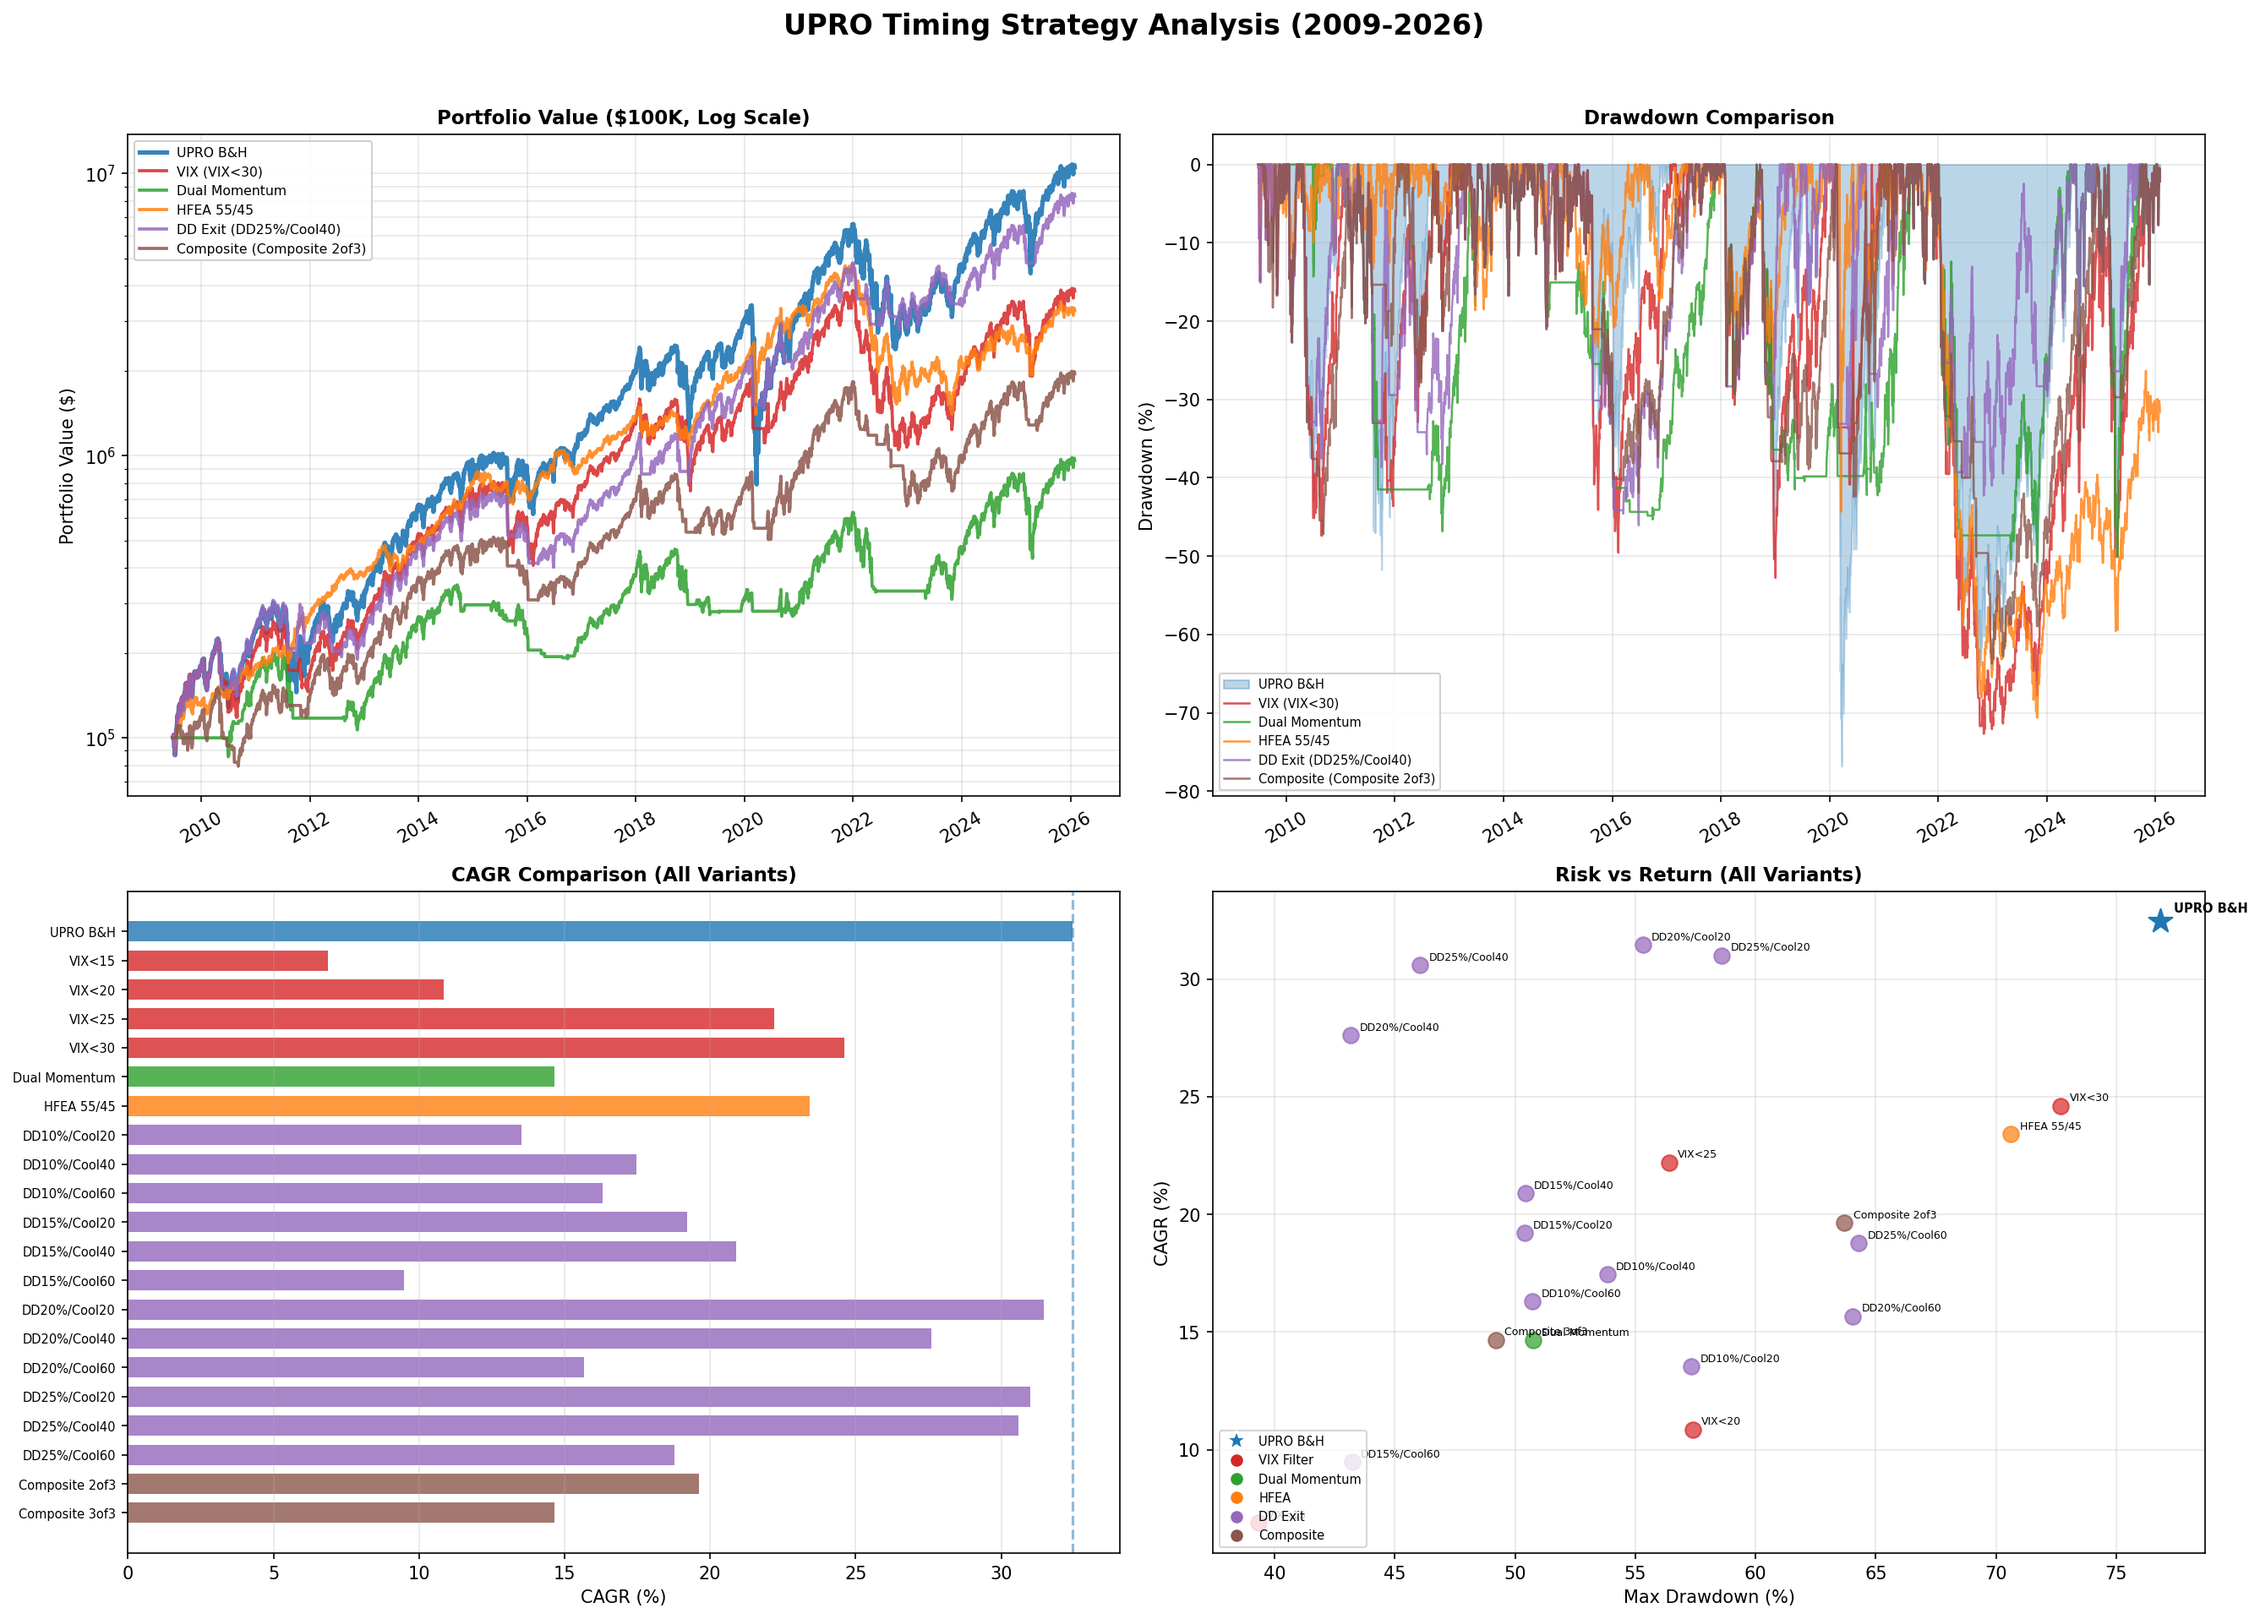
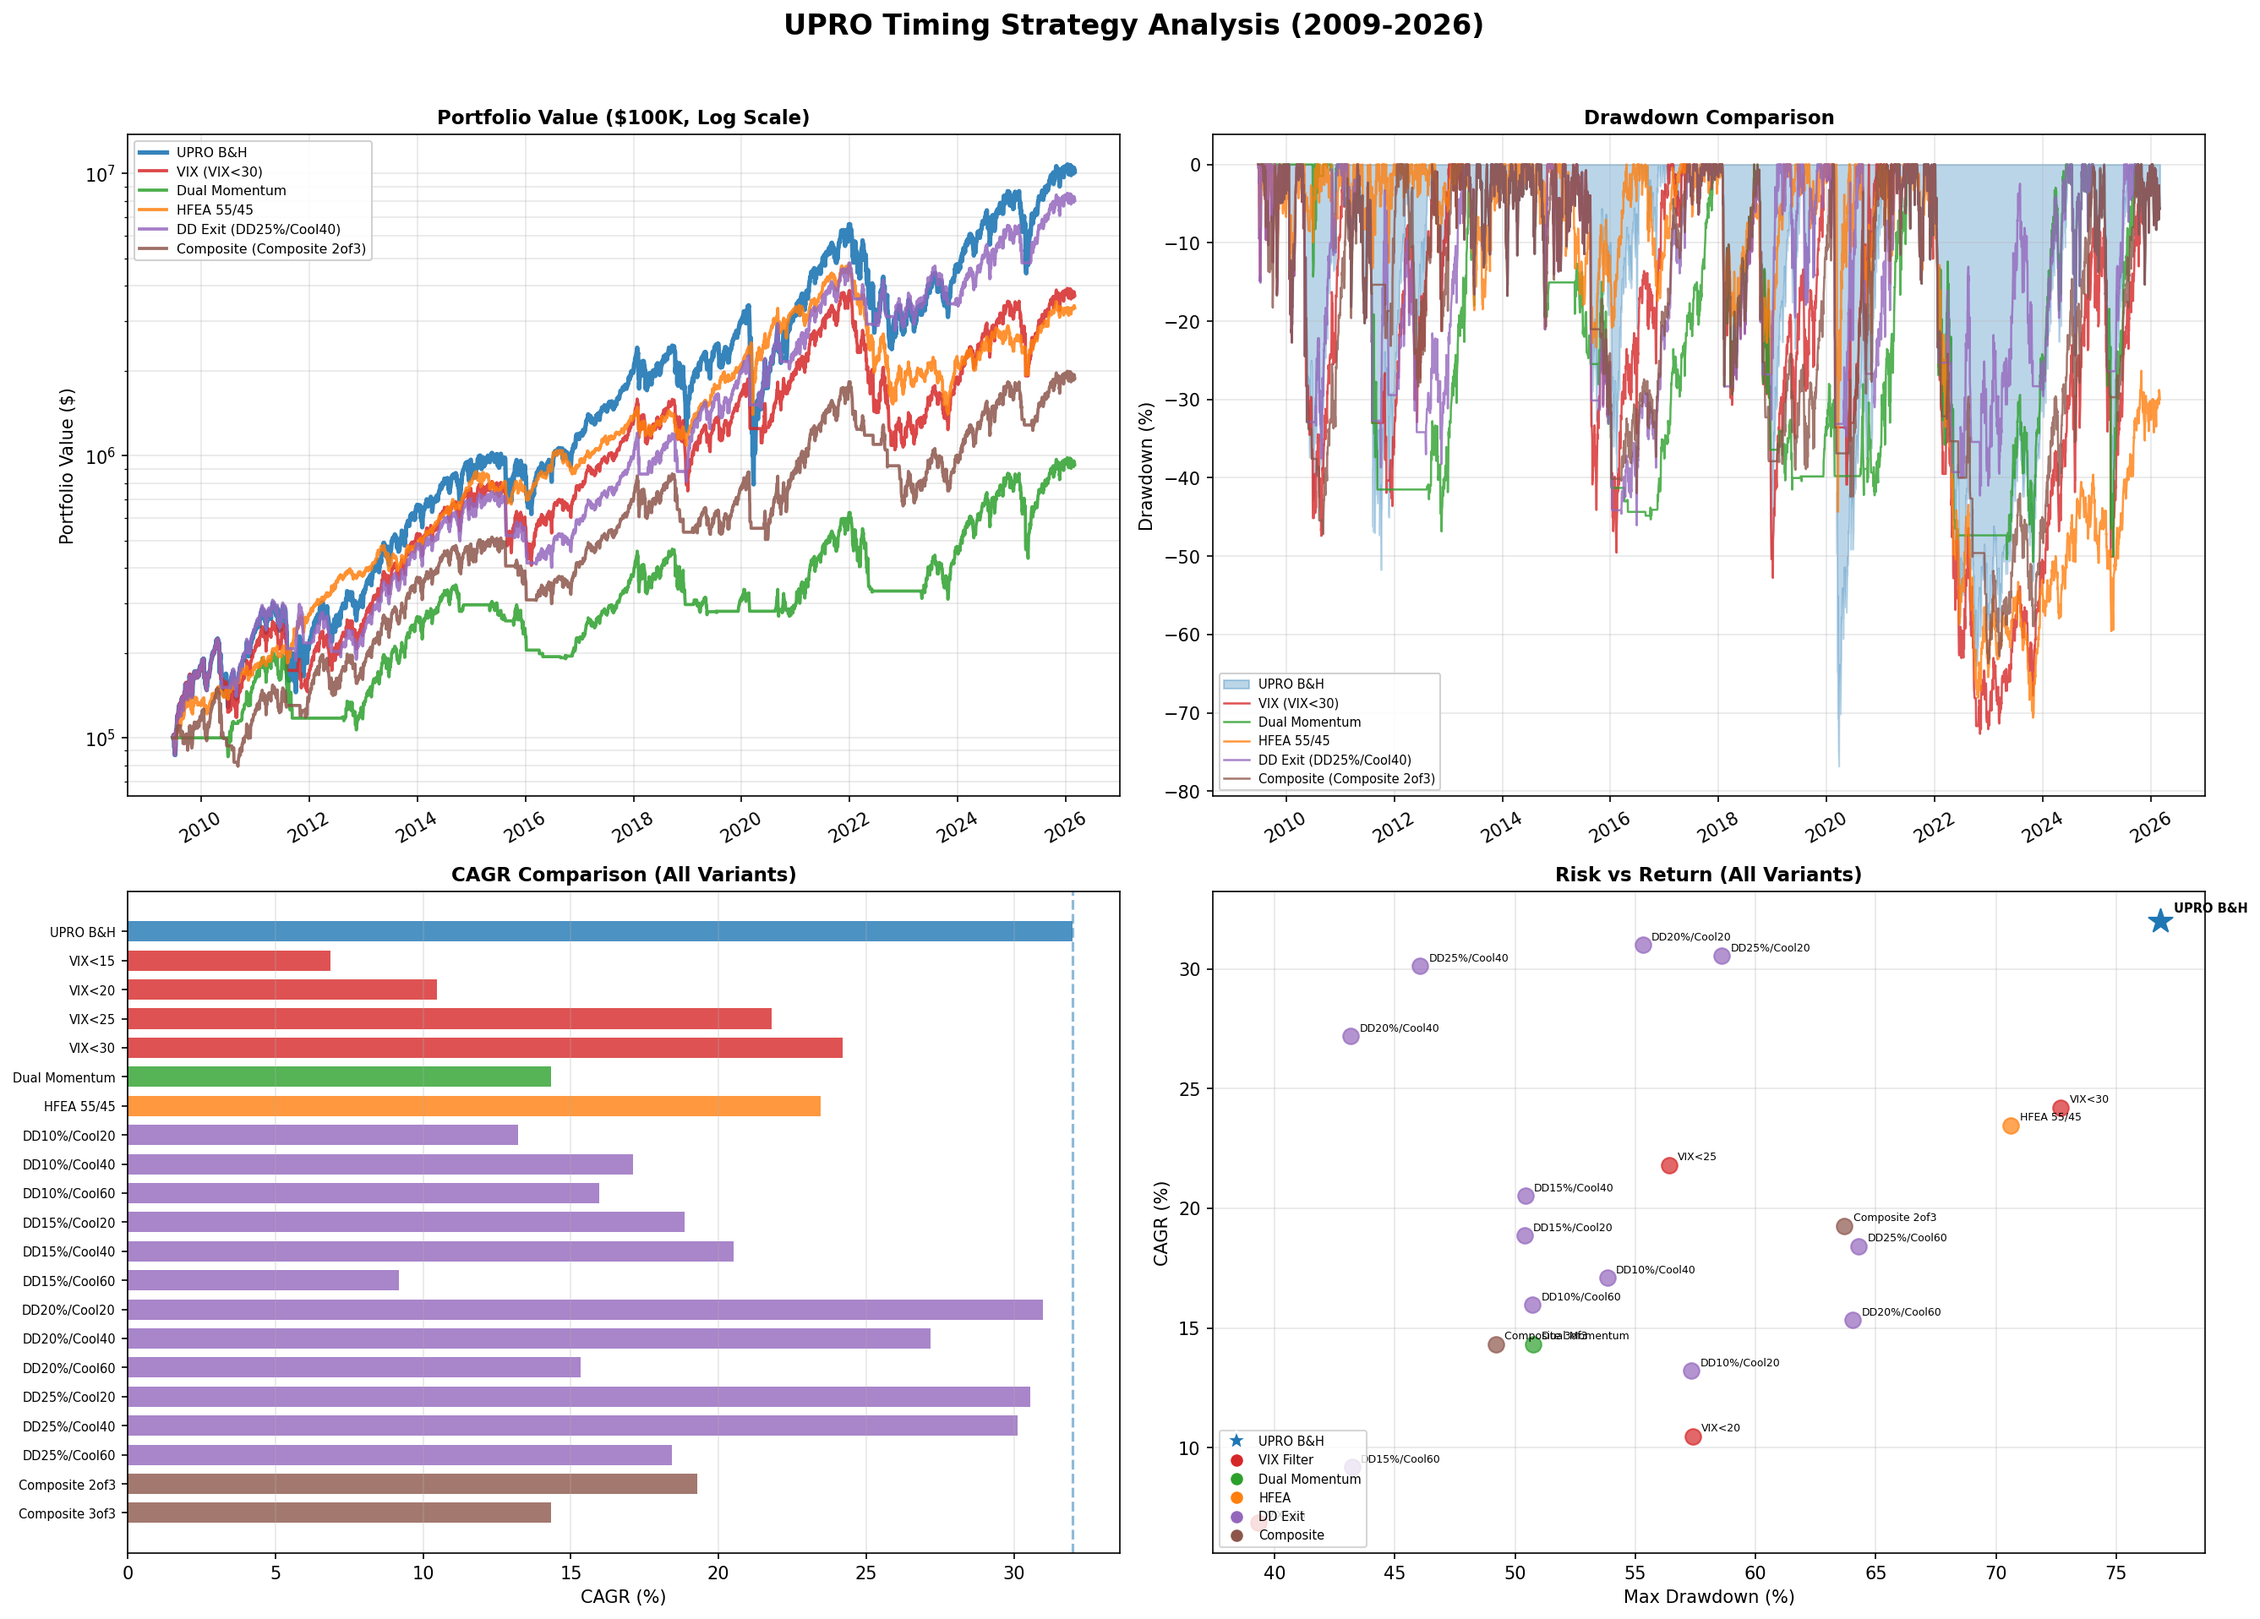
Update UPRO timing backtest through March 2026
Extended END_DATE from 2026-01-31 to 2026-03-03 to pull data through
the March 2 close. Regenerated chart and results CSV.

diff --git a/Strategies/80-Delta Call Strategy/upro_timing_analysis.py b/Strategies/80-Delta Call Strategy/upro_timing_analysis.py
@@ -10,7 +10,7 @@ Strategies:
   4. Drawdown-Triggered Exit
   5. Composite Signal (SMA200 + VIX + Momentum)
 
-Period: UPRO inception (2009-06-25) through 2026-01-31
+Period: UPRO inception (2009-06-25) through 2026-03-02
 Initial capital: $100,000
 
 Usage:
@@ -39,7 +39,7 @@ _this_dir = os.path.dirname(os.path.abspath(__file__))
 
 INITIAL_CAPITAL = 100_000
 UPRO_INCEPTION = "2009-06-25"
-END_DATE = "2026-01-31"
+END_DATE = "2026-03-03"
 # Start SPY/VIX data earlier for SMA200 warm-up
 DATA_START = "2008-01-01"
 TRADING_DAYS_PER_YEAR = 252
